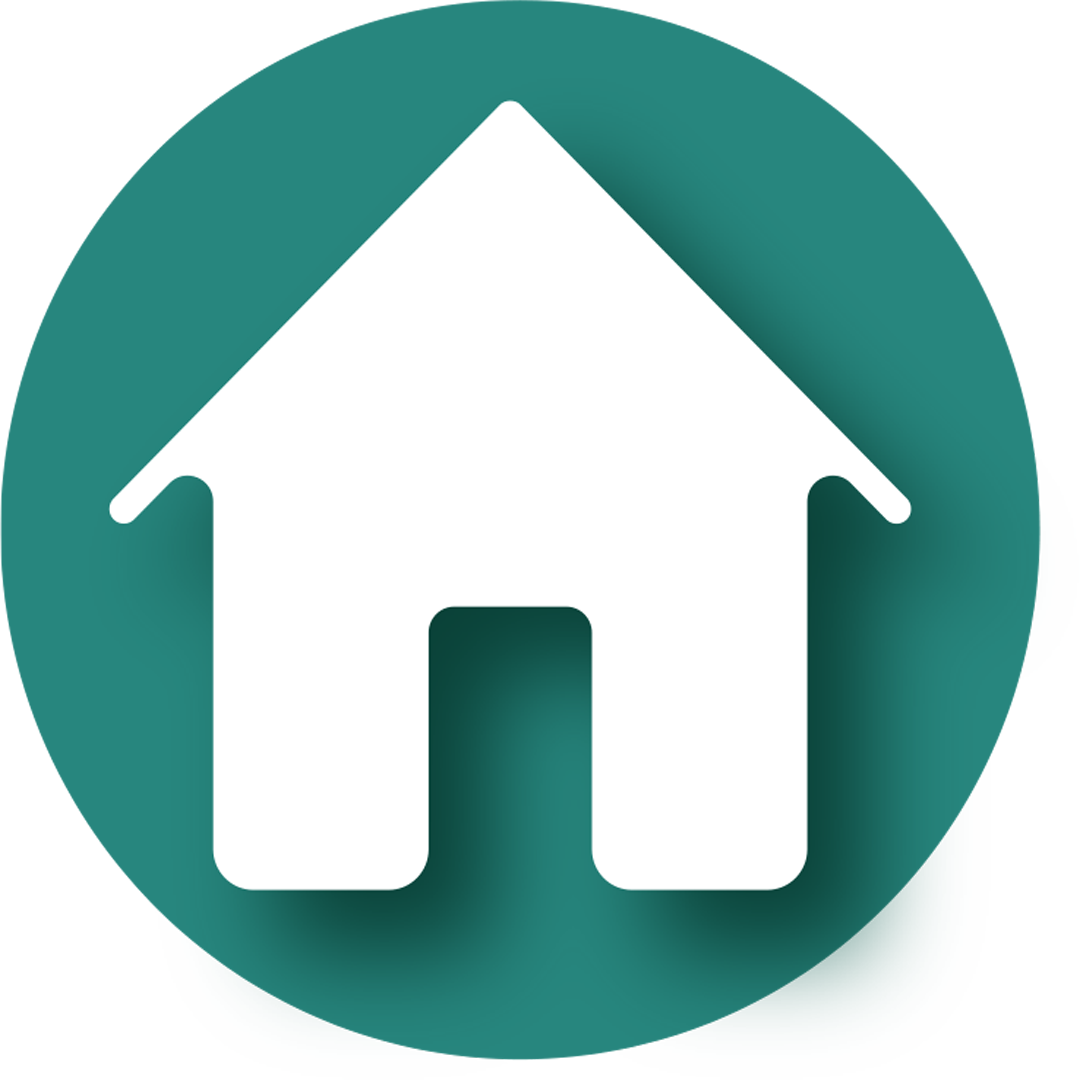
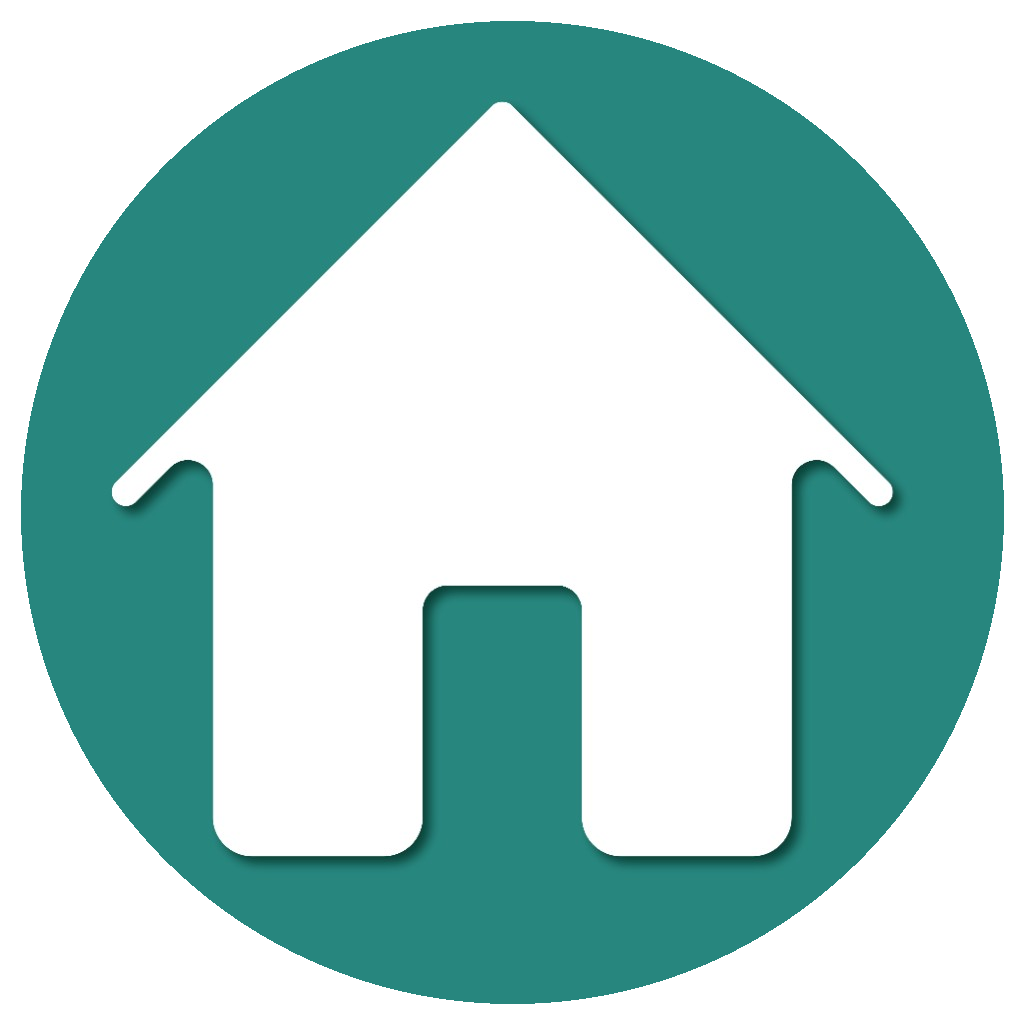
update

diff --git a/resources/views/audio/home.blade.php b/resources/views/audio/home.blade.php
@@ -294,11 +294,11 @@
         <div class="sidebar-content">
             <nav class="sidebar-nav">
                 <a href="{{ route('home') }}" class="sidebar-item {{ request()->routeIs('home') && !request('content_category') ? 'active' : '' }}">
-                    <i class="bi bi-house-door"></i>
+                    <img src="{{ asset('images/home-icon.png') }}" alt="الرئيسية" class="sidebar-item-icon-img" width="24" height="24">
                     <span class="sidebar-item-text">الرئيسية</span>
                 </a>
                 <a href="{{ route('audio.home') }}" class="sidebar-item {{ request()->routeIs('audio.home') && !request('content_category') ? 'active' : '' }}">
-                    <i class="bi bi-mic"></i>
+                    <img src="{{ asset('images/audio-icon.png') }}" alt="المنصة الصوتية" class="sidebar-item-icon-img" width="24" height="24">
                     <span class="sidebar-item-text">المنصة الصوتية</span>
                 </a>
                 <a href="{{ route('shorts') }}" class="sidebar-item {{ request()->routeIs('shorts') ? 'active' : '' }}">

diff --git a/resources/views/home.blade.php b/resources/views/home.blade.php
@@ -40,11 +40,11 @@
             <nav class="sidebar-nav">
                 <!-- Main Navigation -->
                 <a href="{{ route('home') }}" class="sidebar-item {{ request()->routeIs('home') && !request('content_category') && !request('scholar_id') ? 'active' : '' }}">
-                    <i class="bi bi-house-door"></i>
+                    <img src="{{ asset('images/home-icon.png') }}" alt="الرئيسية" class="sidebar-item-icon-img" width="24" height="24">
                     <span class="sidebar-item-text">الرئيسية</span>
                 </a>
                 <a href="{{ route('audio.home') }}" class="sidebar-item {{ request()->routeIs('audio.*') ? 'active' : '' }}">
-                    <i class="bi bi-mic"></i>
+                    <img src="{{ asset('images/audio-icon.png') }}" alt="المنصة الصوتية" class="sidebar-item-icon-img" width="24" height="24">
                     <span class="sidebar-item-text">المنصة الصوتية</span>
                 </a>
                 <a href="{{ route('shorts') }}" class="sidebar-item {{ request()->routeIs('shorts') ? 'active' : '' }}">

diff --git a/resources/views/shorts.blade.php b/resources/views/shorts.blade.php
@@ -9,11 +9,11 @@
         <div class="sidebar-content">
             <nav class="sidebar-nav">
                 <a href="{{ route('home') }}" class="sidebar-item {{ request()->routeIs('home') && !request('content_category') && !request('scholar_id') ? 'active' : '' }}">
-                    <i class="bi bi-house-door"></i>
+                    <img src="{{ asset('images/home-icon.png') }}" alt="الرئيسية" class="sidebar-item-icon-img" width="24" height="24">
                     <span class="sidebar-item-text">الرئيسية</span>
                 </a>
                 <a href="{{ route('audio.home') }}" class="sidebar-item {{ request()->routeIs('audio.*') ? 'active' : '' }}">
-                    <i class="bi bi-mic"></i>
+                    <img src="{{ asset('images/audio-icon.png') }}" alt="المنصة الصوتية" class="sidebar-item-icon-img" width="24" height="24">
                     <span class="sidebar-item-text">المنصة الصوتية</span>
                 </a>
                 <a href="{{ route('shorts') }}" class="sidebar-item {{ request()->routeIs('shorts') ? 'active' : '' }}">

diff --git a/resources/views/playlists/public.blade.php b/resources/views/playlists/public.blade.php
@@ -10,11 +10,11 @@
             <nav class="sidebar-nav">
                 <!-- Main Navigation -->
                 <a href="{{ route('home') }}" class="sidebar-item {{ request()->routeIs('home') && !request('content_category') ? 'active' : '' }}">
-                    <i class="bi bi-house-door"></i>
+                    <img src="{{ asset('images/home-icon.png') }}" alt="الرئيسية" class="sidebar-item-icon-img" width="24" height="24">
                     <span class="sidebar-item-text">الرئيسية</span>
                 </a>
                 <a href="{{ route('audio.home') }}" class="sidebar-item {{ request()->routeIs('audio.*') ? 'active' : '' }}">
-                    <i class="bi bi-mic"></i>
+                    <img src="{{ asset('images/audio-icon.png') }}" alt="المنصة الصوتية" class="sidebar-item-icon-img" width="24" height="24">
                     <span class="sidebar-item-text">المنصة الصوتية</span>
                 </a>
                 <a href="{{ route('shorts') }}" class="sidebar-item {{ request()->routeIs('shorts') ? 'active' : '' }}">

diff --git a/resources/views/playlists/show.blade.php b/resources/views/playlists/show.blade.php
@@ -10,11 +10,11 @@
             <nav class="sidebar-nav">
                 <!-- Main Navigation -->
                 <a href="{{ route('home') }}" class="sidebar-item {{ request()->routeIs('home') && !request('content_category') ? 'active' : '' }}">
-                    <i class="bi bi-house-door"></i>
+                    <img src="{{ asset('images/home-icon.png') }}" alt="الرئيسية" class="sidebar-item-icon-img" width="24" height="24">
                     <span class="sidebar-item-text">الرئيسية</span>
                 </a>
                 <a href="{{ route('audio.home') }}" class="sidebar-item {{ request()->routeIs('audio.*') ? 'active' : '' }}">
-                    <i class="bi bi-mic"></i>
+                    <img src="{{ asset('images/audio-icon.png') }}" alt="المنصة الصوتية" class="sidebar-item-icon-img" width="24" height="24">
                     <span class="sidebar-item-text">المنصة الصوتية</span>
                 </a>
                 <a href="{{ route('shorts') }}" class="sidebar-item {{ request()->routeIs('shorts') ? 'active' : '' }}">

diff --git a/resources/views/assets/show-public.blade.php b/resources/views/assets/show-public.blade.php
@@ -153,7 +153,7 @@
                     <span class="sidebar-item-text">الرئيسية</span>
                 </a>
                 <a href="{{ route('audio.home') }}" class="sidebar-item {{ request()->routeIs('audio.*') ? 'active' : '' }}">
-                    <i class="bi bi-mic"></i>
+                    <img src="{{ asset('images/audio-icon.png') }}" alt="المنصة الصوتية" class="sidebar-item-icon-img" width="24" height="24">
                     <span class="sidebar-item-text">المنصة الصوتية</span>
                 </a>
                 <a href="{{ route('shorts') }}" class="sidebar-item {{ !$isAudioPublic && request()->routeIs('shorts') ? 'active' : '' }}">

diff --git a/resources/views/scholars/public.blade.php b/resources/views/scholars/public.blade.php
@@ -10,7 +10,7 @@
             <nav class="sidebar-nav">
                 <!-- Main Navigation -->
                 <a href="{{ route('home') }}" class="sidebar-item {{ request()->routeIs('home') && !request('content_category') && !request('scholar_id') ? 'active' : '' }}">
-                    <i class="bi bi-house-door"></i>
+                    <img src="{{ asset('images/home-icon.png') }}" alt="الرئيسية" class="sidebar-item-icon-img" width="24" height="24">
                     <span class="sidebar-item-text">الرئيسية</span>
                 </a>
                 <a href="{{ route('shorts') }}" class="sidebar-item {{ request()->routeIs('shorts') ? 'active' : '' }}">

diff --git a/resources/views/scholars/show-public.blade.php b/resources/views/scholars/show-public.blade.php
@@ -10,7 +10,7 @@
             <nav class="sidebar-nav">
                 <!-- Main Navigation -->
                 <a href="{{ route('home') }}" class="sidebar-item {{ request()->routeIs('home') && !request('content_category') && !request('scholar_id') ? 'active' : '' }}">
-                    <i class="bi bi-house-door"></i>
+                    <img src="{{ asset('images/home-icon.png') }}" alt="الرئيسية" class="sidebar-item-icon-img" width="24" height="24">
                     <span class="sidebar-item-text">الرئيسية</span>
                 </a>
                 <a href="{{ route('shorts') }}" class="sidebar-item {{ request()->routeIs('shorts') ? 'active' : '' }}">

diff --git a/resources/views/favorites.blade.php b/resources/views/favorites.blade.php
@@ -10,7 +10,7 @@
             <nav class="sidebar-nav">
                 <!-- Main Navigation -->
                 <a href="{{ route('home') }}" class="sidebar-item {{ request()->routeIs('home') && !request('content_category') ? 'active' : '' }}">
-                    <i class="bi bi-house-door"></i>
+                    <img src="{{ asset('images/home-icon.png') }}" alt="الرئيسية" class="sidebar-item-icon-img" width="24" height="24">
                     <span class="sidebar-item-text">الرئيسية</span>
                 </a>
                 <a href="{{ route('shorts') }}" class="sidebar-item {{ request()->routeIs('shorts') ? 'active' : '' }}">

diff --git a/resources/views/liked.blade.php b/resources/views/liked.blade.php
@@ -10,7 +10,7 @@
             <nav class="sidebar-nav">
                 <!-- Main Navigation -->
                 <a href="{{ route('home') }}" class="sidebar-item {{ request()->routeIs('home') && !request('content_category') ? 'active' : '' }}">
-                    <i class="bi bi-house-door"></i>
+                    <img src="{{ asset('images/home-icon.png') }}" alt="الرئيسية" class="sidebar-item-icon-img" width="24" height="24">
                     <span class="sidebar-item-text">الرئيسية</span>
                 </a>
                 <a href="{{ route('shorts') }}" class="sidebar-item {{ request()->routeIs('shorts') ? 'active' : '' }}">

diff --git a/resources/views/profile.blade.php b/resources/views/profile.blade.php
@@ -10,7 +10,7 @@
             <nav class="sidebar-nav">
                 <!-- Main Navigation -->
                 <a href="{{ route('home') }}" class="sidebar-item {{ request()->routeIs('home') && !request('content_category') ? 'active' : '' }}">
-                    <i class="bi bi-house-door"></i>
+                    <img src="{{ asset('images/home-icon.png') }}" alt="الرئيسية" class="sidebar-item-icon-img" width="24" height="24">
                     <span class="sidebar-item-text">الرئيسية</span>
                 </a>
                 <a href="{{ route('shorts') }}" class="sidebar-item {{ request()->routeIs('shorts') ? 'active' : '' }}">
